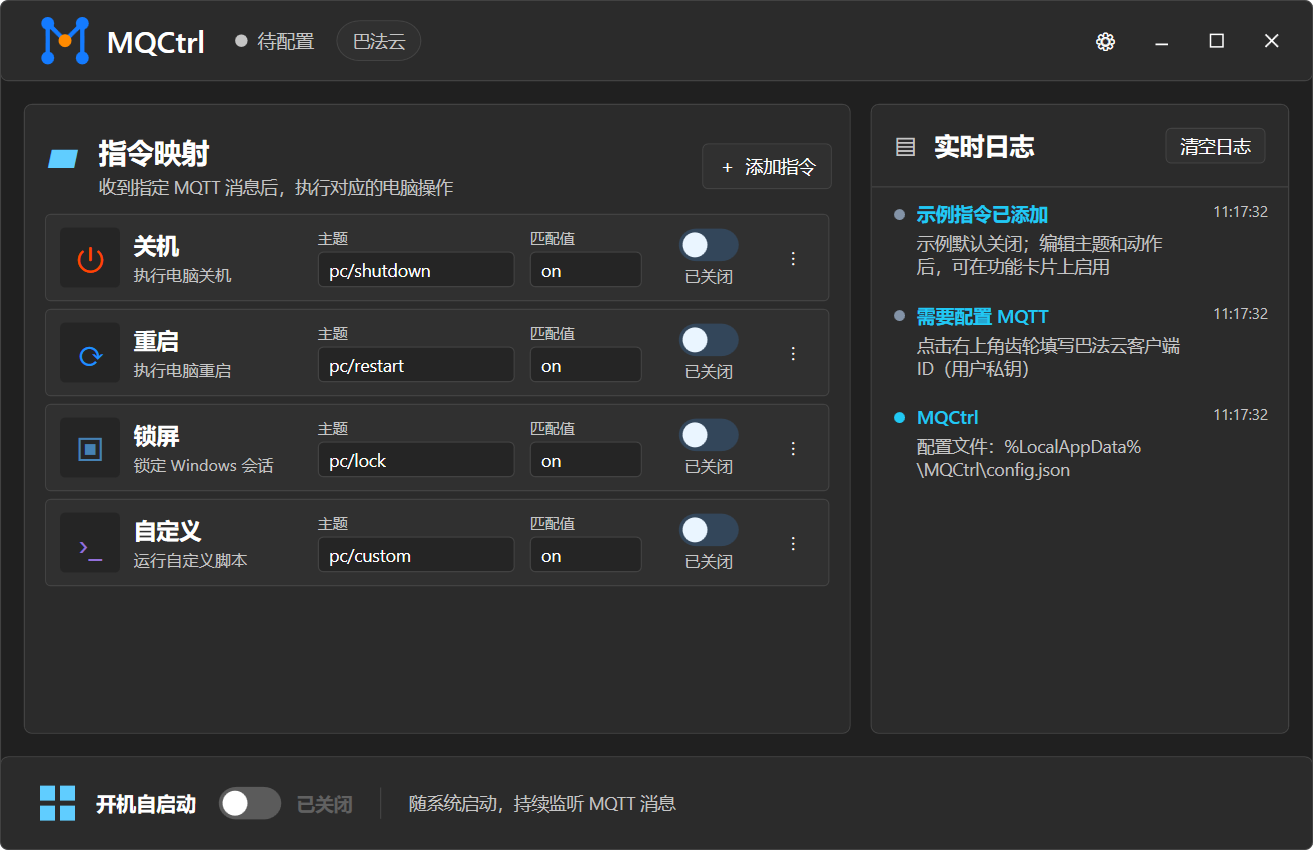
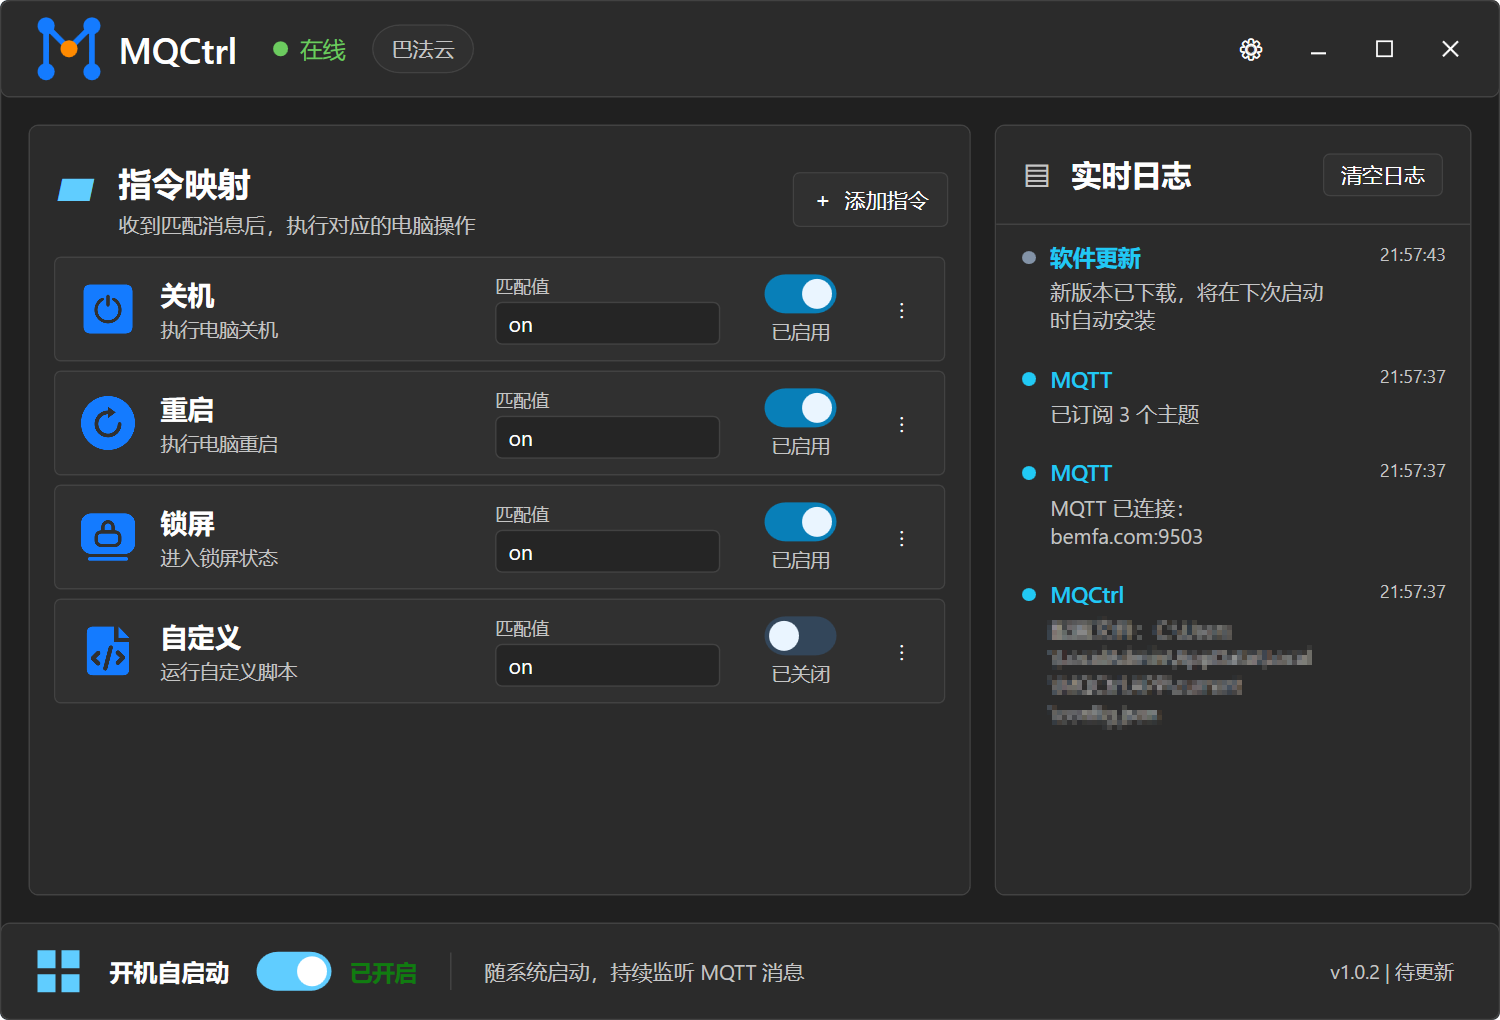
Update README overview and screenshot

diff --git a/README.md b/README.md
@@ -1,10 +1,16 @@
 # MQCtrl
 
-**通过 MQTT 消息控制 Windows 电脑。** MQCtrl 在后台监听你指定的主题，收到匹配消息后执行关机、重启、锁屏或自定义脚本。
+想用小爱同学或米家 App 控制 Windows 电脑？MQCtrl 可以把智能家居发出的指令传到电脑：例如说一句话或运行一个米家自动化，让电脑关机、重启、锁屏，或运行你指定的脚本。
+
+简单来说，指令会从米家/小爱同学经过巴法云（MQTT 消息服务）发送到电脑上的 MQCtrl；MQCtrl 收到你预先设置好的主题和匹配内容后，再执行对应操作。MQCtrl 是运行在 Windows 上的接收端，不负责语音识别，也不是米家 App 的替代品；使用前需要先配置好米家/小爱同学与巴法云之间的设备或自动化关联。
 
 [下载 MQCtrl](https://github.com/JiessLi/MQCtrl/releases/latest) · [反馈问题](https://github.com/JiessLi/MQCtrl/issues) · [MIT 许可证](LICENSE)
 
-![MQCtrl 主界面：管理 MQTT 指令并查看实时日志](Assets/mqctrl-main-window.png)
+## 软件界面
+
+主窗口可以查看 MQTT 连接与实时日志、管理电脑控制指令，并设置是否随 Windows 启动。
+
+![MQCtrl 主界面：管理电脑控制指令并查看实时日志](Assets/mqctrl-main-window.png)
 
 ## 主要功能
 
@@ -23,9 +29,11 @@
 ## 快速开始
 
 1. 启动 MQCtrl，点击标题栏右侧的齿轮按钮打开 MQTT 设置。
-2. 选择“巴法云”或“通用 MQTT”，填写平台提供的连接信息并保存。
-3. 在 MQTT 平台创建主题，在 MQCtrl 中为相应指令填写相同主题、匹配值和动作，然后启用指令。
-4. 向该主题发布匹配值。例如，主题为 `pc/lock`、匹配值为 `on` 时，发布 `on` 会锁定当前 Windows 会话。
+2. 选择“巴法云”或“通用 MQTT”，填写对应平台提供的服务器和客户端信息并保存。使用巴法云时，按巴法云提供的说明创建并关联智能设备。
+3. 在 MQCtrl 中找到要使用的指令，填写与 MQTT 平台一致的主题和匹配值，然后启用该指令。
+4. 让米家 App、小爱同学或其他 MQTT 发布端向该主题发送匹配值。例如，主题为 `pc/lock`、匹配值为 `on` 时，收到 `on` 就会让电脑进入锁屏状态。
+
+如果只想先确认电脑端是否正常，可以暂时不连接米家：在 MQTT 平台向已配置的主题发送匹配值，观察 MQCtrl 的实时日志是否显示收到消息并执行操作。
 
 巴法云常用连接参数：`bemfa.com:9501`（TCP）或 `bemfa.com:9503`（TLS）。主题须完全匹配；消息内容会忽略首尾空格及大小写差异。MQCtrl 只订阅已启用指令使用的主题。
 
@@ -59,4 +67,4 @@ MQCtrl 不提供云端中转服务，也不向项目维护者发送遥测、MQTT
 
 ## Code signing policy
 
-当前版本尚未进行代码签名，SignPath Foundation 申请尚未提交。申请获批后，计划由 SignPath.io 免费提供代码签名，证书由 SignPath Foundation 提供。SignPath 已确认单人维护者可兼任 Authors/Committers、Reviewers 和 Approvers；每次签名请求仍需人工批准。详见[代码签名政策](CODE_SIGNING_POLICY.md)。
+当前版本尚未进行代码签名，Windows 可能显示 SmartScreen 安全提示。请仅从本项目的 [GitHub Releases](https://github.com/JiessLi/MQCtrl/releases/latest) 下载。详见[代码签名政策](CODE_SIGNING_POLICY.md)。
